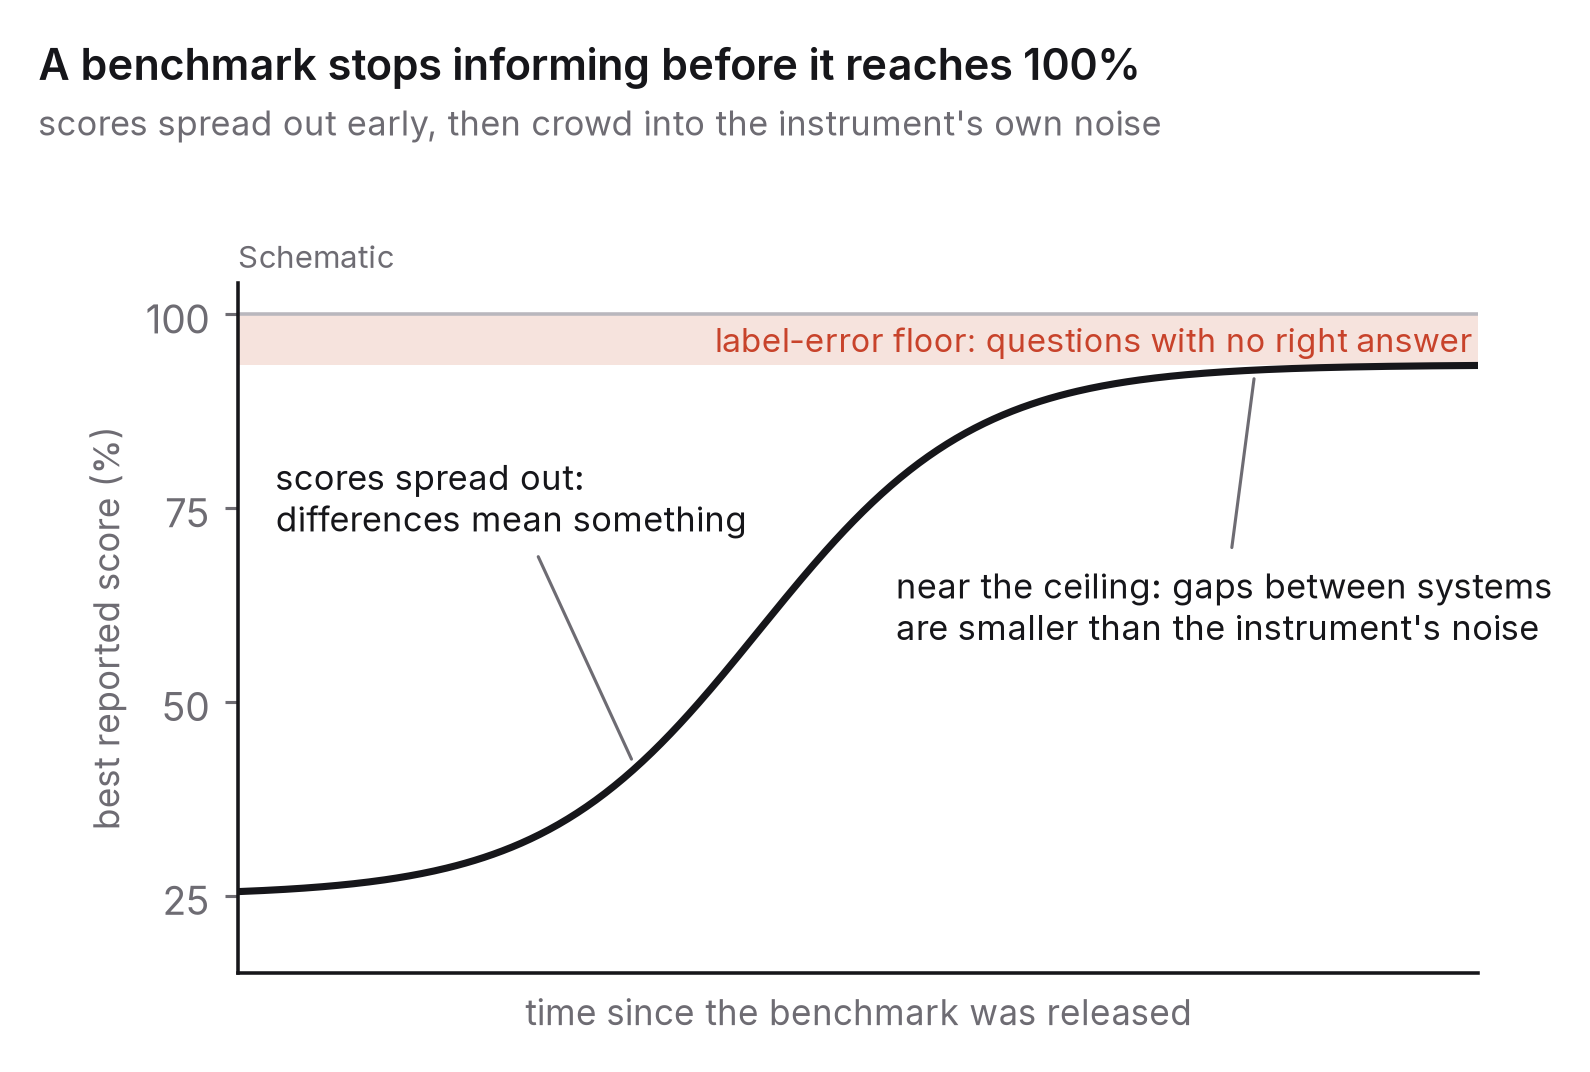
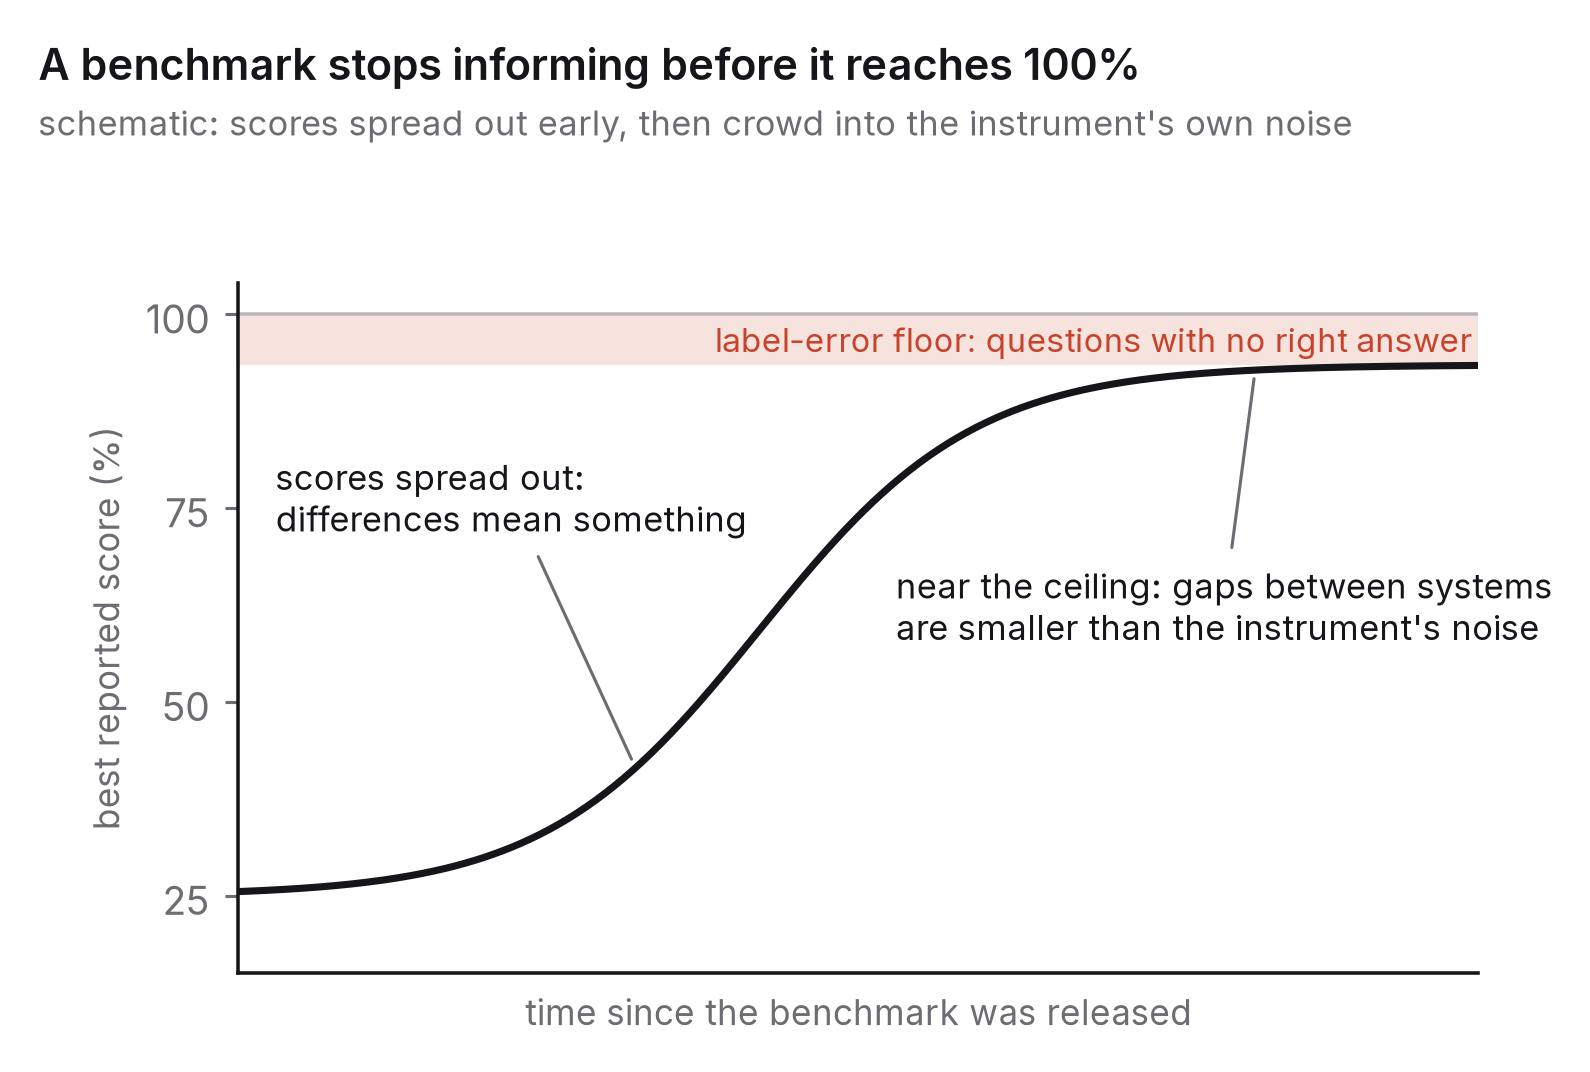
Figures: consistency spectrum and schematic notes placed under the headline band; run_all.log normalised to UTF-8; P4 section cross-references corrected

Changed region(s): [[0.0616, 0.0924, 0.8629, 0.1539], [0.1541, 0.2155, 0.2465, 0.2463]]

diff --git a/books/figures.py b/books/figures.py
@@ -40,7 +40,7 @@ plt.rcParams.update({
 HEADLINES = {
     # Book 1
     "fig01_levels_map": ("\u201cAGI\u201d is a grid, not a finishing line", "performance against breadth, with 2023 systems placed by the framework's authors"),
-    "fig02_saturation": ("A benchmark stops informing before it reaches 100%", "scores spread out early, then crowd into the instrument's own noise"),
+    "fig02_saturation": ("A benchmark stops informing before it reaches 100%", "schematic: scores spread out early, then crowd into the instrument's own noise"),
     "fig03_four_channels": ("Four channels, and only one shows on day one", "the other three take years, and historically they decide the outcome"),
     "fig04_entry_ladder": ("The tools are strongest exactly where careers begin", "the routine work that trains juniors is the work the tools do best"),
     "fig05_proof_and_practice": ("Practice and proof have come apart", "the essay still teaches; it no longer proves anything"),
@@ -71,7 +71,7 @@ HEADLINES = {
     "fig08_queue_depth": ("Arrivals above capacity grow a queue without limit", "messages waiting under three arrival patterns"),
     "fig09_error_budget": ("At burn rate 14.4, a month's budget lasts two days", "error budget remaining for a 99.9% SLO over 30 days"),
     "fig10_knee": ("Past about 80% busy, waiting explodes", "time in system as a multiple of service time, single queue"),
-    "fig11_cost_crossover": ("Count the people and the crossover moves", "managed against self-hosted cost as volume grows"),
+    "fig11_cost_crossover": ("Count the people and the crossover moves", "schematic: managed against self-hosted cost as volume grows"),
     "fig12_decision_loop": ("Decide, record, measure, repeat", "the design loop that turns opinions into evidence"),
 }
 
@@ -197,7 +197,6 @@ def agi_saturation():
     ax.set_xlim(0, 10); ax.set_ylim(15, 104); ax.set_xticks([]); ax.set_yticks([25, 50, 75, 100])
     ax.set_xlabel("time since the benchmark was released", color=MID, fontsize=8.5)
     ax.set_ylabel("best reported score (%)", color=MID, fontsize=8.5)
-    ax.text(0, 106, "Schematic", fontsize=7.5, color=MID)
     save(fig, "agi", "fig02_saturation")
 
 
@@ -503,7 +502,7 @@ def sys_memory_hierarchy():
 
 def sys_consistency():
     A, T = ACCENT["systems"], TINT["systems"]
-    fig, ax = blank(3.1)
+    fig, ax = blank(3.55)
     models = ["Linearizable", "Sequential", "Causal", "Session\n(read-your-writes,\nmonotonic reads)", "Eventual"]
     promise = ["never stale", "one agreed order", "no effect before\nits cause", "you see your\nown writes", "copies agree\neventually"]
     examples = ["Spanner, etcd,\nZooKeeper", "", "COPS", "edge routing,\nversion tokens", "Dynamo-style stores,\nreplica reads"]
@@ -514,8 +513,8 @@ def sys_consistency():
         label(ax, x + 7, 21.5, pr, 7.9, INK, ha="center", va="top")
         label(ax, x + 7, 9.5, ex, 7.3, MID, ha="center", va="top")
     ax.plot([11, 87], [27, 27], color=INK, lw=0.9, zorder=0)
-    arrow(ax, 82, 44, 18, 44, MID, 0.8)
-    label(ax, 50, 46.5, "more coordination: more latency, less availability during a partition", 7.9, MID, ha="center")
+    arrow(ax, 82, 45.2, 18, 45.2, MID, 0.8)
+    label(ax, 50, 47.6, "more coordination: more latency, less availability during a partition", 7.9, MID, ha="center")
     save(fig, "systems", "fig05_consistency_spectrum")
 
 
@@ -627,7 +626,6 @@ def sys_cost_crossover():
                 arrowprops=dict(arrowstyle="-", color=MID, lw=0.7))
     ax.set_xlim(0, 10); ax.set_ylim(0, 10); ax.set_xticks([]); ax.set_yticks([])
     ax.set_xlabel("steady volume", color=MID, fontsize=8.5); ax.set_ylabel("cost per month", color=MID, fontsize=8.5)
-    ax.text(0, 10.3, "Schematic", fontsize=7.5, color=MID)
     save(fig, "systems", "fig11_cost_crossover")
 
 

diff --git a/papers/p4-ann-frontiers/paper.md b/papers/p4-ann-frontiers/paper.md
@@ -22,8 +22,8 @@ This paper measures all of these for the two dominant index families on two stan
 ### 1.1 Contributions
 
 - Recall–throughput frontiers for IVF-Flat and two independent HNSW implementations on SIFT-128 and GloVe-100, with every configuration reported rather than only the frontier points (Section 4 and Appendix A).
-- The serving-style measurement the batched convention omits: single-query latency on one thread, as p50 and p99, for every configuration, and the size of the gap between it and batched per-query cost (Section 4.3).
-- Build time and memory for every index, so that each point on the frontier carries its construction cost (Section 4.4).
+- The serving-style measurement the batched convention omits: single-query latency on one thread, as p50 and p99, for every configuration, and the size of the gap between it and batched per-query cost (Section 4.4).
+- Build time and memory for every index, so that each point on the frontier carries its construction cost (Section 4.5).
 - A documented account of how background load distorts these measurements, including an abandoned run in which batched search slowed roughly tenfold under contention, and the quiet-machine gate adopted in response (Section 3.3).
 - A benchmark that reproduces with one command from public data whose hashes are recorded.
 
